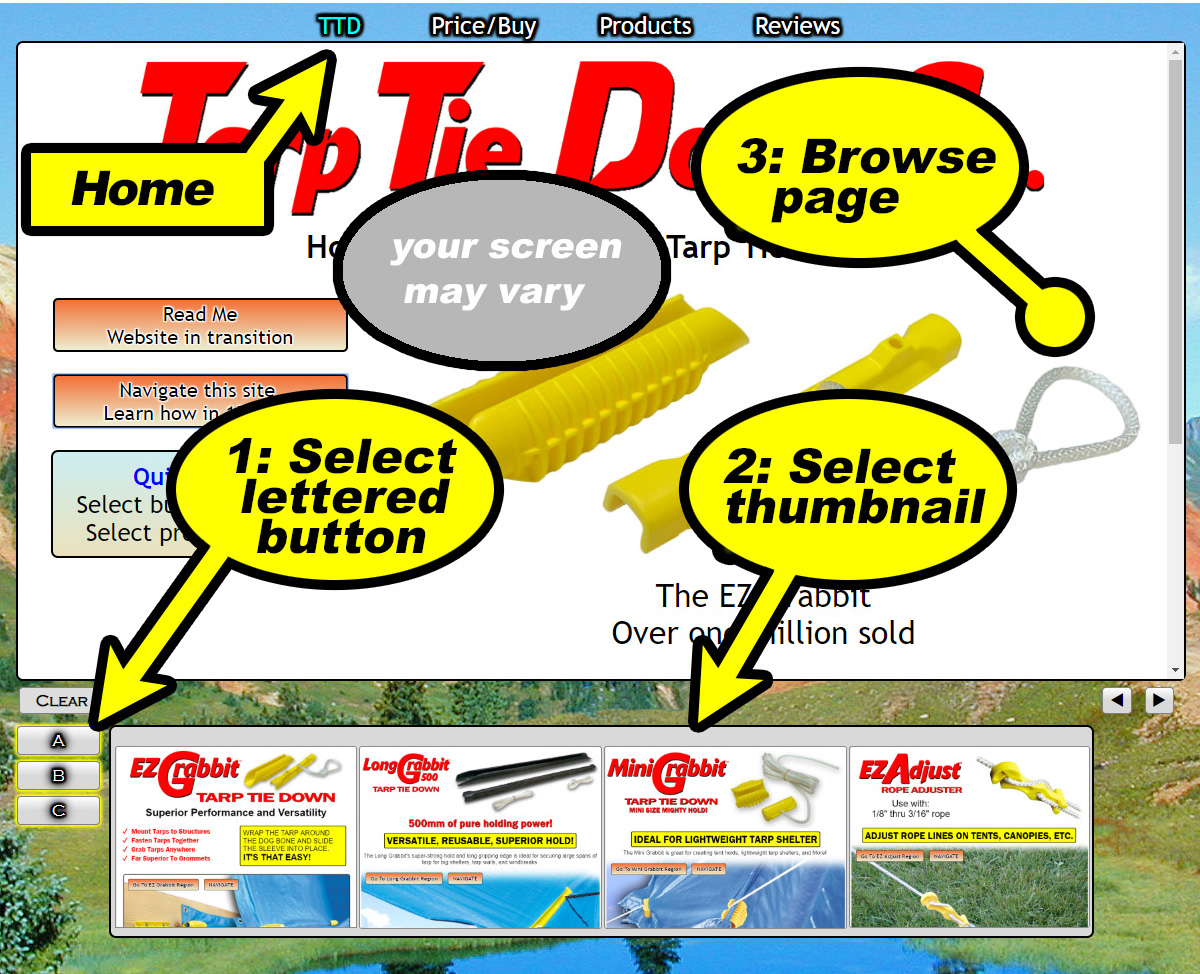
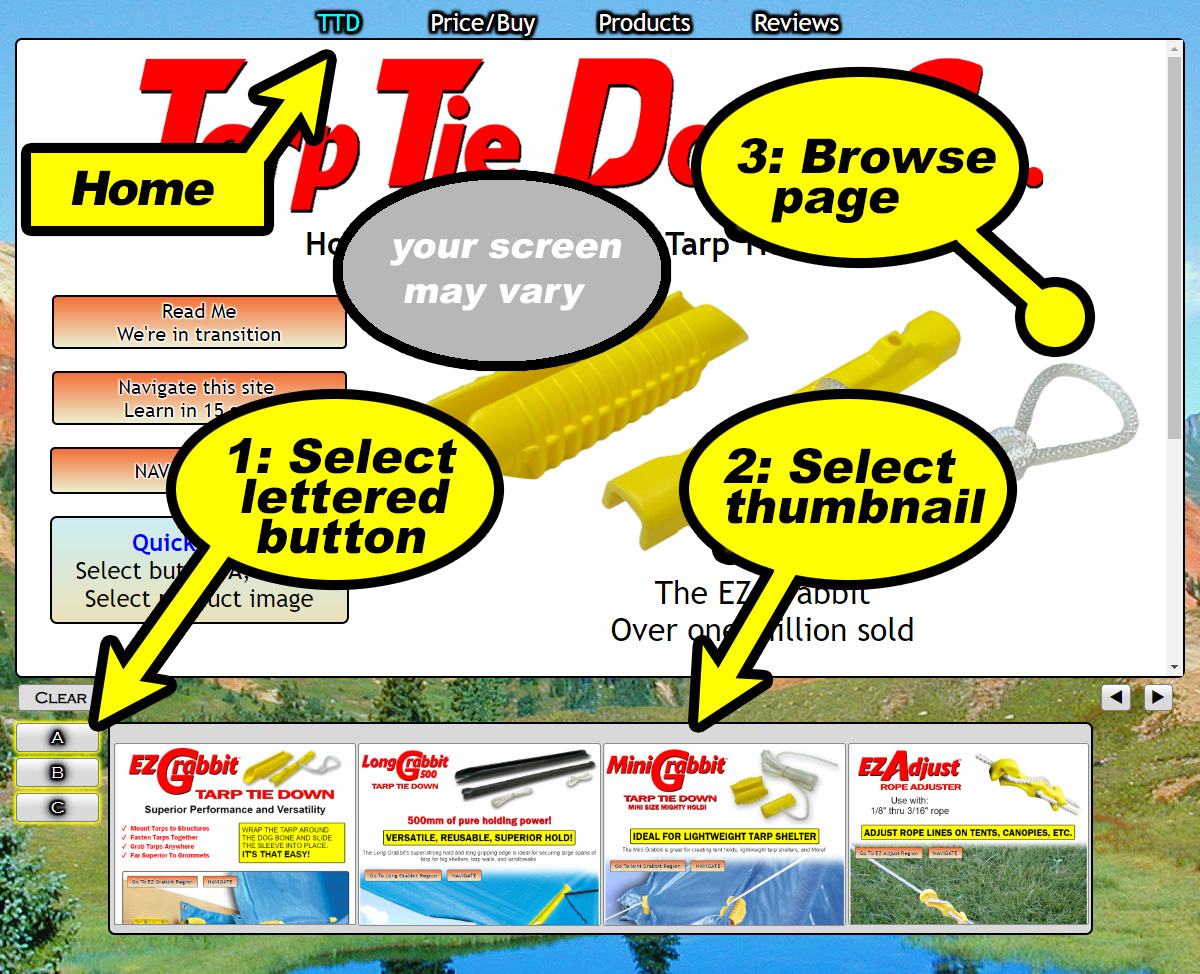
Update navigate instructions and add youtube keyword to view10

diff --git a/components/top_menu/intro/navigate.html b/components/top_menu/intro/navigate.html
@@ -1,3 +1,25 @@
+<div style="font-size:1.5em;">Top Menu:</div>
+
+<div>
+    The menu along the top is general information.
+</div>
+<br><br>
+
+<div style="font-size:1.5em;">Lettered Button Menu:</div>
+
+<div>
+    The lettered button menu and thumbnails focus on the various products, product details 
+    including product discussion, applications, instructions, specifications, etc.
+</div>
+<br><br>
+
+<div style="font-size:1.5em">NAVIGATE / NAVIGATE MAP Button</div>
+
+<div>
+The NAVIGATE and/or NAVIGATE MAP button opens a list of the the various 
+categories and contents of the various choices. Generally, you are never more
+than a two or three selections away from all content on this site.
+</div><br>
 <div>
     <img src="ttd-vn-navigate-directions.jpg" alt="test" style="width:100%">
 </div>

diff --git a/components/components08_11/tmpl_10/viewTmpl_10.html b/components/components08_11/tmpl_10/viewTmpl_10.html
@@ -9,6 +9,7 @@
         <li style="color:blue;">Tarp Clips</li>
         <li style="color:blue;">Tent Tarp Setup</li>
         <li style="color:blue;">Tarp Tent</li>
+        <li style="color:blue;">Tarp Clamp</li>
     </ul>    
     
 </div>    
